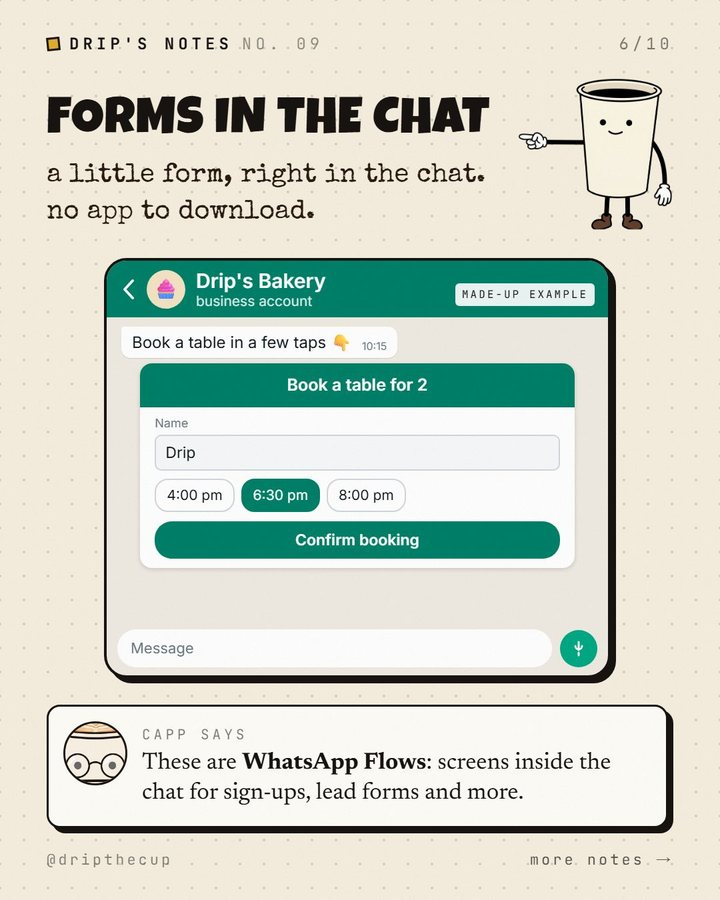
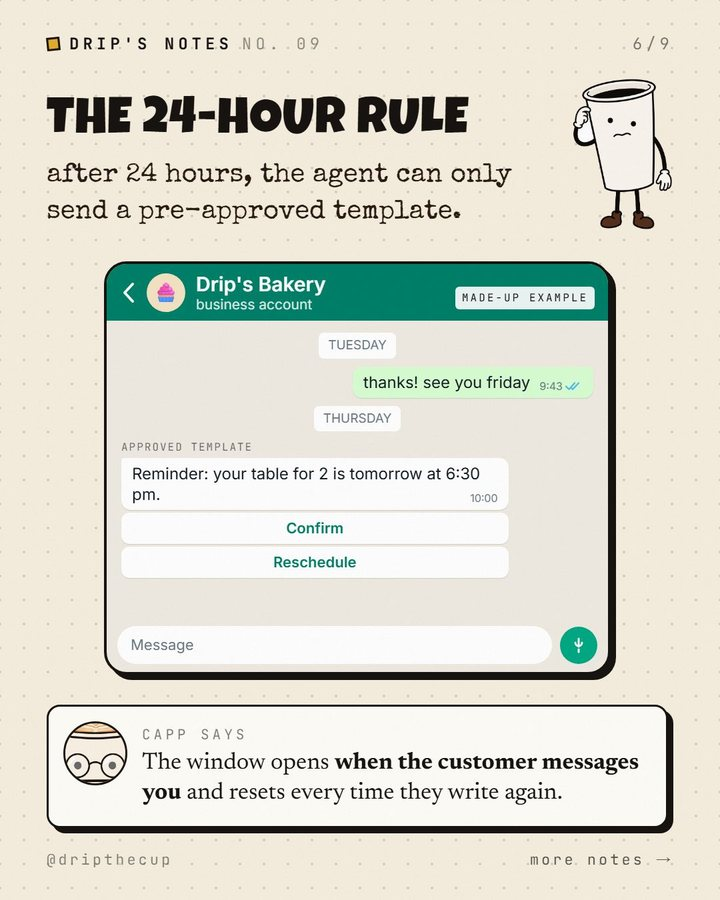
WhatsApp carousel v4: your own WhatsApp agent, 9 slides

diff --git a/links/index.html b/links/index.html
@@ -100,7 +100,7 @@
     <p>A short summary of each one, the video itself, and a link to every tool, repo and source. Newest first.</p>
   </section>
   <nav class="jump" aria-label="Jump to a video">
-    <a href="#whatsapp-number"><img src="carousels/whatsapp-number/01.jpg" alt="" loading="lazy"><span>Your AI can have its own WhatsApp number</span></a>
+    <a href="#whatsapp-number"><img src="carousels/whatsapp-number/01.jpg" alt="" loading="lazy"><span>Create your own WhatsApp agent for your business</span></a>
     <a href="#ai-tools-directory"><img src="videos/ai-tools-directory.jpg" alt="" loading="lazy"><span>191 AI tools, and Jev picks the right one for you</span></a>
     <a href="#claude-code-repos"><img src="videos/claude-code-repos.jpg" alt="" loading="lazy"><span>4 free GitHub repos that make Claude Code way better</span></a>
     <a href="#jev-vs-chatgpt"><img src="thumbs/jev-vs-chatgpt.jpg" alt="" loading="lazy"><span>Jev vs ChatGPT: this AI doesn&#x27;t write back</span></a>
@@ -109,12 +109,12 @@
     <a href="#voice-to-text"><img src="thumbs/voice-to-text.jpg" alt="" loading="lazy"><span>Four words. 25,000 numbers. Zero letters. How voice to text works</span></a>
   </nav>
   <article class="ep" id="whatsapp-number">
-    <div class="clip"><div class="slides"><img src="carousels/whatsapp-number/01.jpg" alt="slide 1 of 10" loading="lazy" width="720" height="900"><img src="carousels/whatsapp-number/02.jpg" alt="slide 2 of 10" loading="lazy" width="720" height="900"><img src="carousels/whatsapp-number/03.jpg" alt="slide 3 of 10" loading="lazy" width="720" height="900"><img src="carousels/whatsapp-number/04.jpg" alt="slide 4 of 10" loading="lazy" width="720" height="900"><img src="carousels/whatsapp-number/05.jpg" alt="slide 5 of 10" loading="lazy" width="720" height="900"><img src="carousels/whatsapp-number/06.jpg" alt="slide 6 of 10" loading="lazy" width="720" height="900"><img src="carousels/whatsapp-number/07.jpg" alt="slide 7 of 10" loading="lazy" width="720" height="900"><img src="carousels/whatsapp-number/08.jpg" alt="slide 8 of 10" loading="lazy" width="720" height="900"><img src="carousels/whatsapp-number/09.jpg" alt="slide 9 of 10" loading="lazy" width="720" height="900"><img src="carousels/whatsapp-number/10.jpg" alt="slide 10 of 10" loading="lazy" width="720" height="900"></div><p class="yt soon">Swipe through the slides →</p><p class="date">Carousel · Sep 2026 · 10 slides</p></div>
+    <div class="clip"><div class="slides"><img src="carousels/whatsapp-number/01.jpg" alt="slide 1 of 9" loading="lazy" width="720" height="900"><img src="carousels/whatsapp-number/02.jpg" alt="slide 2 of 9" loading="lazy" width="720" height="900"><img src="carousels/whatsapp-number/03.jpg" alt="slide 3 of 9" loading="lazy" width="720" height="900"><img src="carousels/whatsapp-number/04.jpg" alt="slide 4 of 9" loading="lazy" width="720" height="900"><img src="carousels/whatsapp-number/05.jpg" alt="slide 5 of 9" loading="lazy" width="720" height="900"><img src="carousels/whatsapp-number/06.jpg" alt="slide 6 of 9" loading="lazy" width="720" height="900"><img src="carousels/whatsapp-number/07.jpg" alt="slide 7 of 9" loading="lazy" width="720" height="900"><img src="carousels/whatsapp-number/08.jpg" alt="slide 8 of 9" loading="lazy" width="720" height="900"><img src="carousels/whatsapp-number/09.jpg" alt="slide 9 of 9" loading="lazy" width="720" height="900"></div><p class="yt soon">Swipe through the slides →</p><p class="date">Carousel · Sep 2026 · 9 slides</p></div>
     <div class="body">
       <p class="eyebrow">AI agents</p>
-      <h2>Your AI can have its own WhatsApp number</h2>
+      <h2>Create your own WhatsApp agent for your business</h2>
       <h3 class="sumh">What it covers</h3>
-      <p class="lede">Capp shows Drip how an AI agent can answer a business&#x27;s WhatsApp through Meta&#x27;s official Cloud API: messages arrive at your code as a webhook, your code asks Claude what to say, and the reply goes back through the API. Plus the fine print: the 24-hour window, opt-in before messaging anyone, Meta&#x27;s rule against general-purpose AI assistants, and per-message pricing (replies inside the window are charged from October 1, 2026). Facts checked September 23, 2026.</p>
+      <p class="lede">Give Claude a WhatsApp number and your business gets its own agent: a help desk that answers customers on WhatsApp. Kapso (which calls itself an official Meta Business Partner) gives you the number and Claude Code sets it up with Kapso&#x27;s skills. Plus WhatsApp forms in the chat and the fine print: the 24-hour window, opt-in, Meta&#x27;s rule against general-purpose AI assistants, and per-message pricing (replies inside the window are charged from October 1, 2026). Facts checked September 23, 2026.</p>
       <h3 class="sumh">Everything we mentioned</h3>
       <ul class="tools">
         <li class="tool"><div class="tool-top"><h3><a href="https://developers.facebook.com/docs/whatsapp/cloud-api" target="_blank" rel="noopener">WhatsApp Cloud API</a></h3><span class="kind">docs</span></div>

diff --git a/index.html b/index.html
@@ -422,7 +422,7 @@
     <div class="vrow" id="vrow">
         <a class="vcard " href="/links/#whatsapp-number">
           <img src="links/carousels/whatsapp-number/01.jpg" alt="" loading="lazy">
-          <span class="vmeta"><span class="vtag">Carousel · AI agents</span><b>Your AI can have its own WhatsApp number</b><small>Summary + links →</small></span>
+          <span class="vmeta"><span class="vtag">Carousel · AI agents</span><b>Create your own WhatsApp agent for your business</b><small>Summary + links →</small></span>
         </a>
         <a class="vcard " href="/links/#ai-tools-directory">
           <img src="links/videos/ai-tools-directory.jpg" alt="" loading="lazy">
